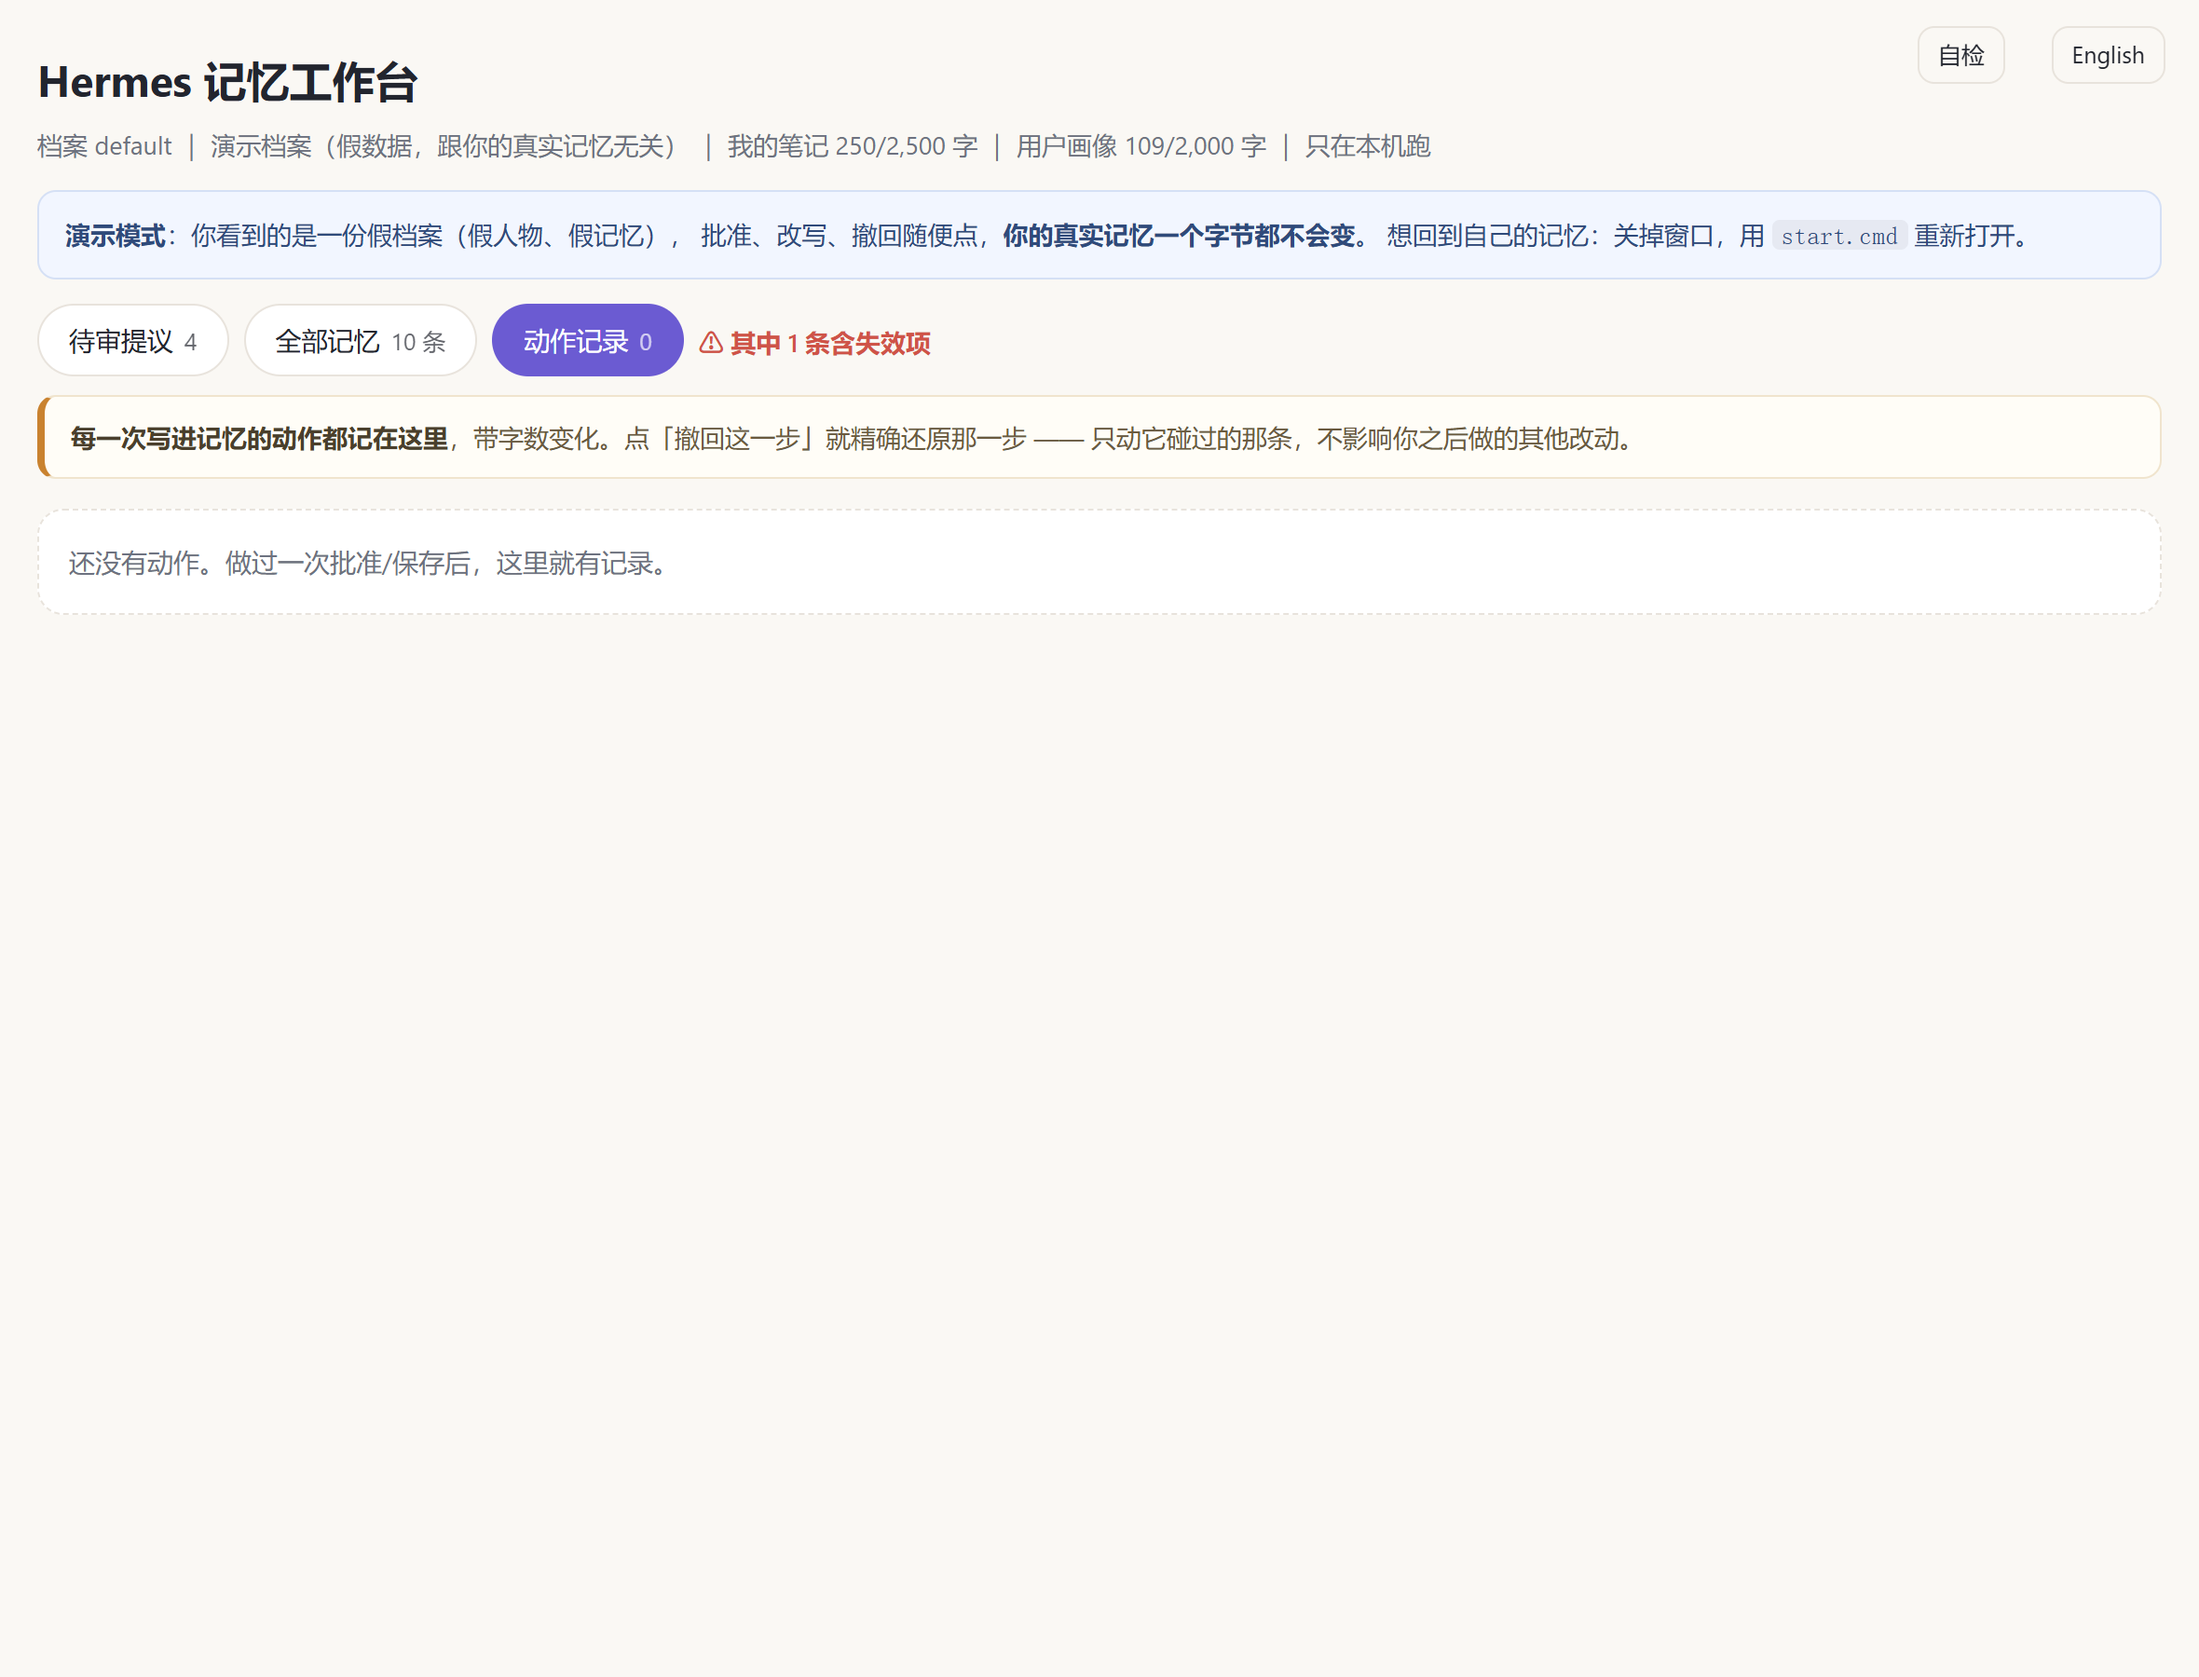
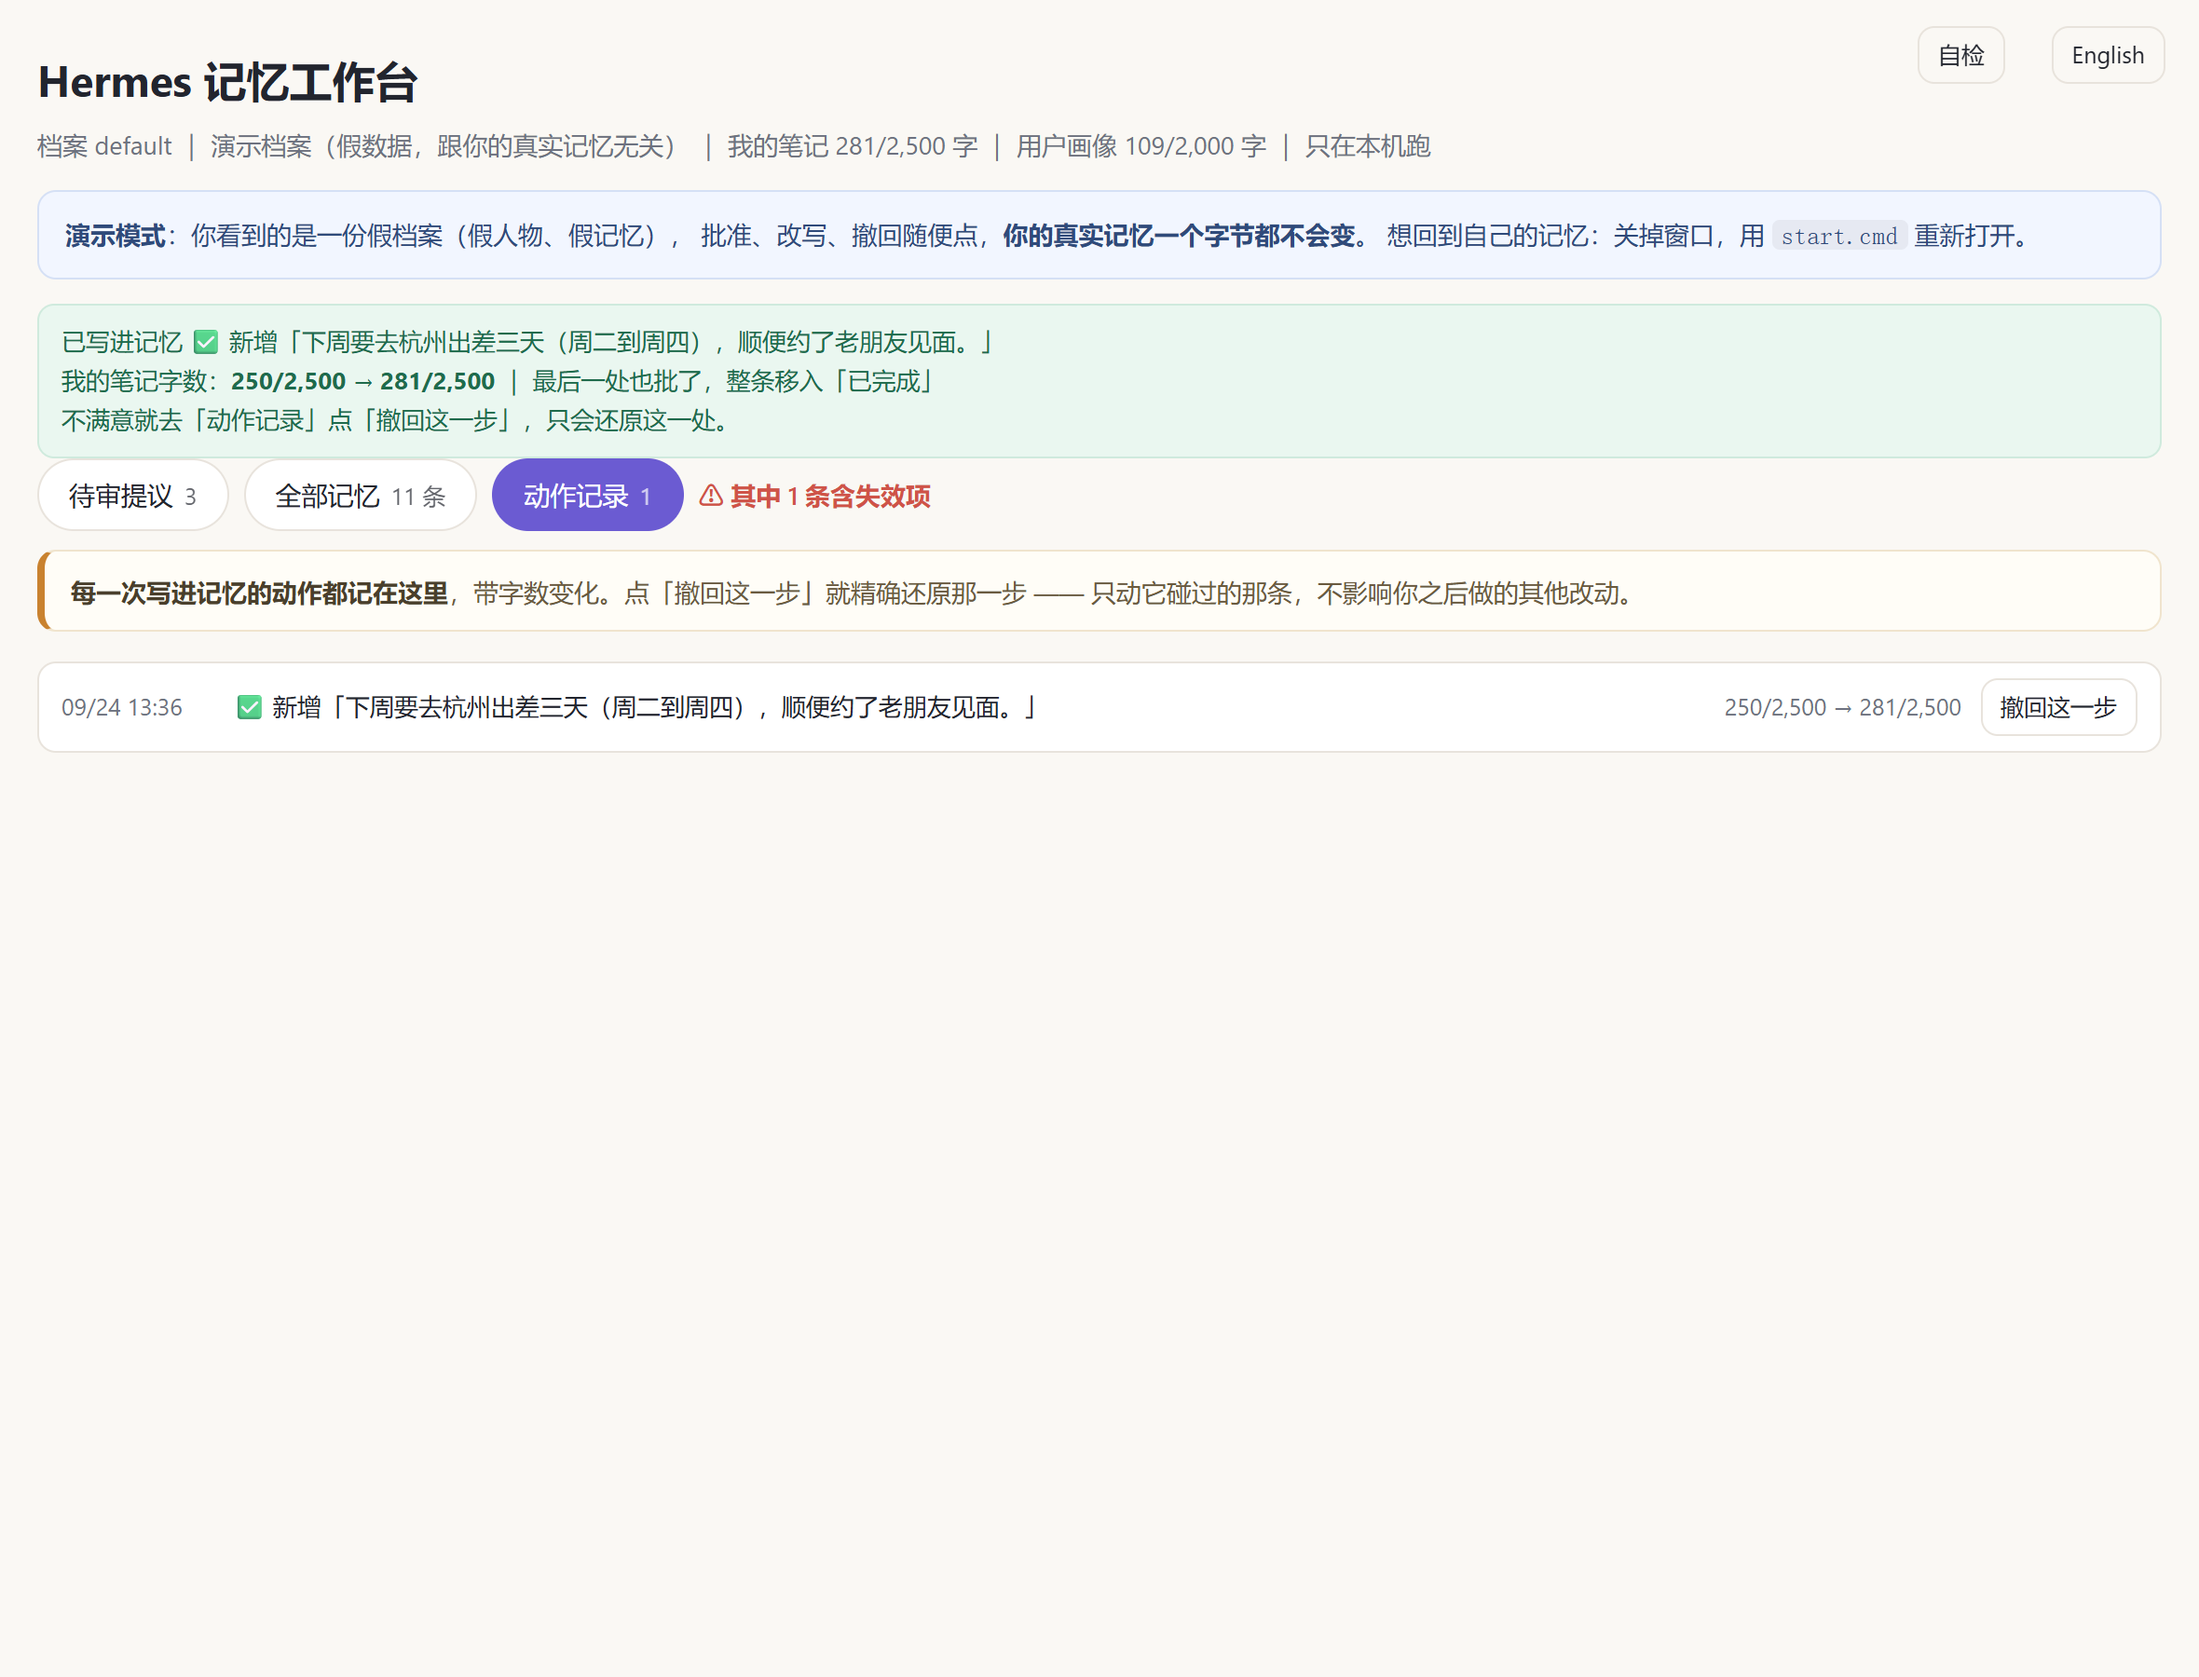
docs: link the two READMEs to each other; cli: follow LANG/LC_ALL for the console language
- README.md / README.en.md now carry a language switch on the first screen (GitHub has no native localized-README switcher)
- console_lang() now honours LANG/LC_ALL before falling back to the OS locale, so --help and the startup banner are English on an English machine (mac/Linux/containers included)
- docs/03-log.png now shows a real entry with its undo button instead of an empty log

diff --git a/i18n.py b/i18n.py
@@ -354,9 +354,12 @@ def resolve_lang(accept: str = "", fallback: str = "zh") -> str:
 def console_lang() -> str:
     """终端横幅用哪种语言：优先 MR_LANG，其次系统区域（海外用户看到英文横幅）。"""
     import os
-    env = (os.environ.get("MR_LANG") or "").strip()
-    if env in ("zh", "en"):
-        return env
+    # MR_LANG（我们的显式覆盖）→ LANG/LC_ALL（mac / Linux / 容器里的标准做法）→ 系统区域
+    env = (os.environ.get("MR_LANG") or os.environ.get("LC_ALL") or os.environ.get("LANG") or "").strip().lower()
+    if env.startswith("zh") or "chinese" in env:
+        return "zh"
+    if env.startswith("en") or env in ("c", "posix"):
+        return "en"
     try:
         import locale
         loc = (locale.getlocale()[0] or "") + (locale.getdefaultlocale()[0] or "")

diff --git a/README.md b/README.md
@@ -1,5 +1,7 @@
 # Hermes 记忆工作台（hermes-memory-workbench）
 
+[English](README.en.md) | **中文**
+
 **给 Hermes 的记忆做「看 · 改 · 批 · 撤」的本地小页面。**
 
 Hermes 有一个「改记忆前先问过我」的开关（`memory.write_approval`）。打开它之后，AI 想增删改

diff --git a/README.en.md b/README.en.md
@@ -1,5 +1,7 @@
 # Hermes Memory Workbench (hermes-memory-workbench)
 
+[中文](README.md) | **English**
+
 **A local web page to review, edit, approve, and undo your Hermes memory.**
 
 Hermes ships a "ask me before writing memory" switch (`memory.write_approval`). With it on, the
